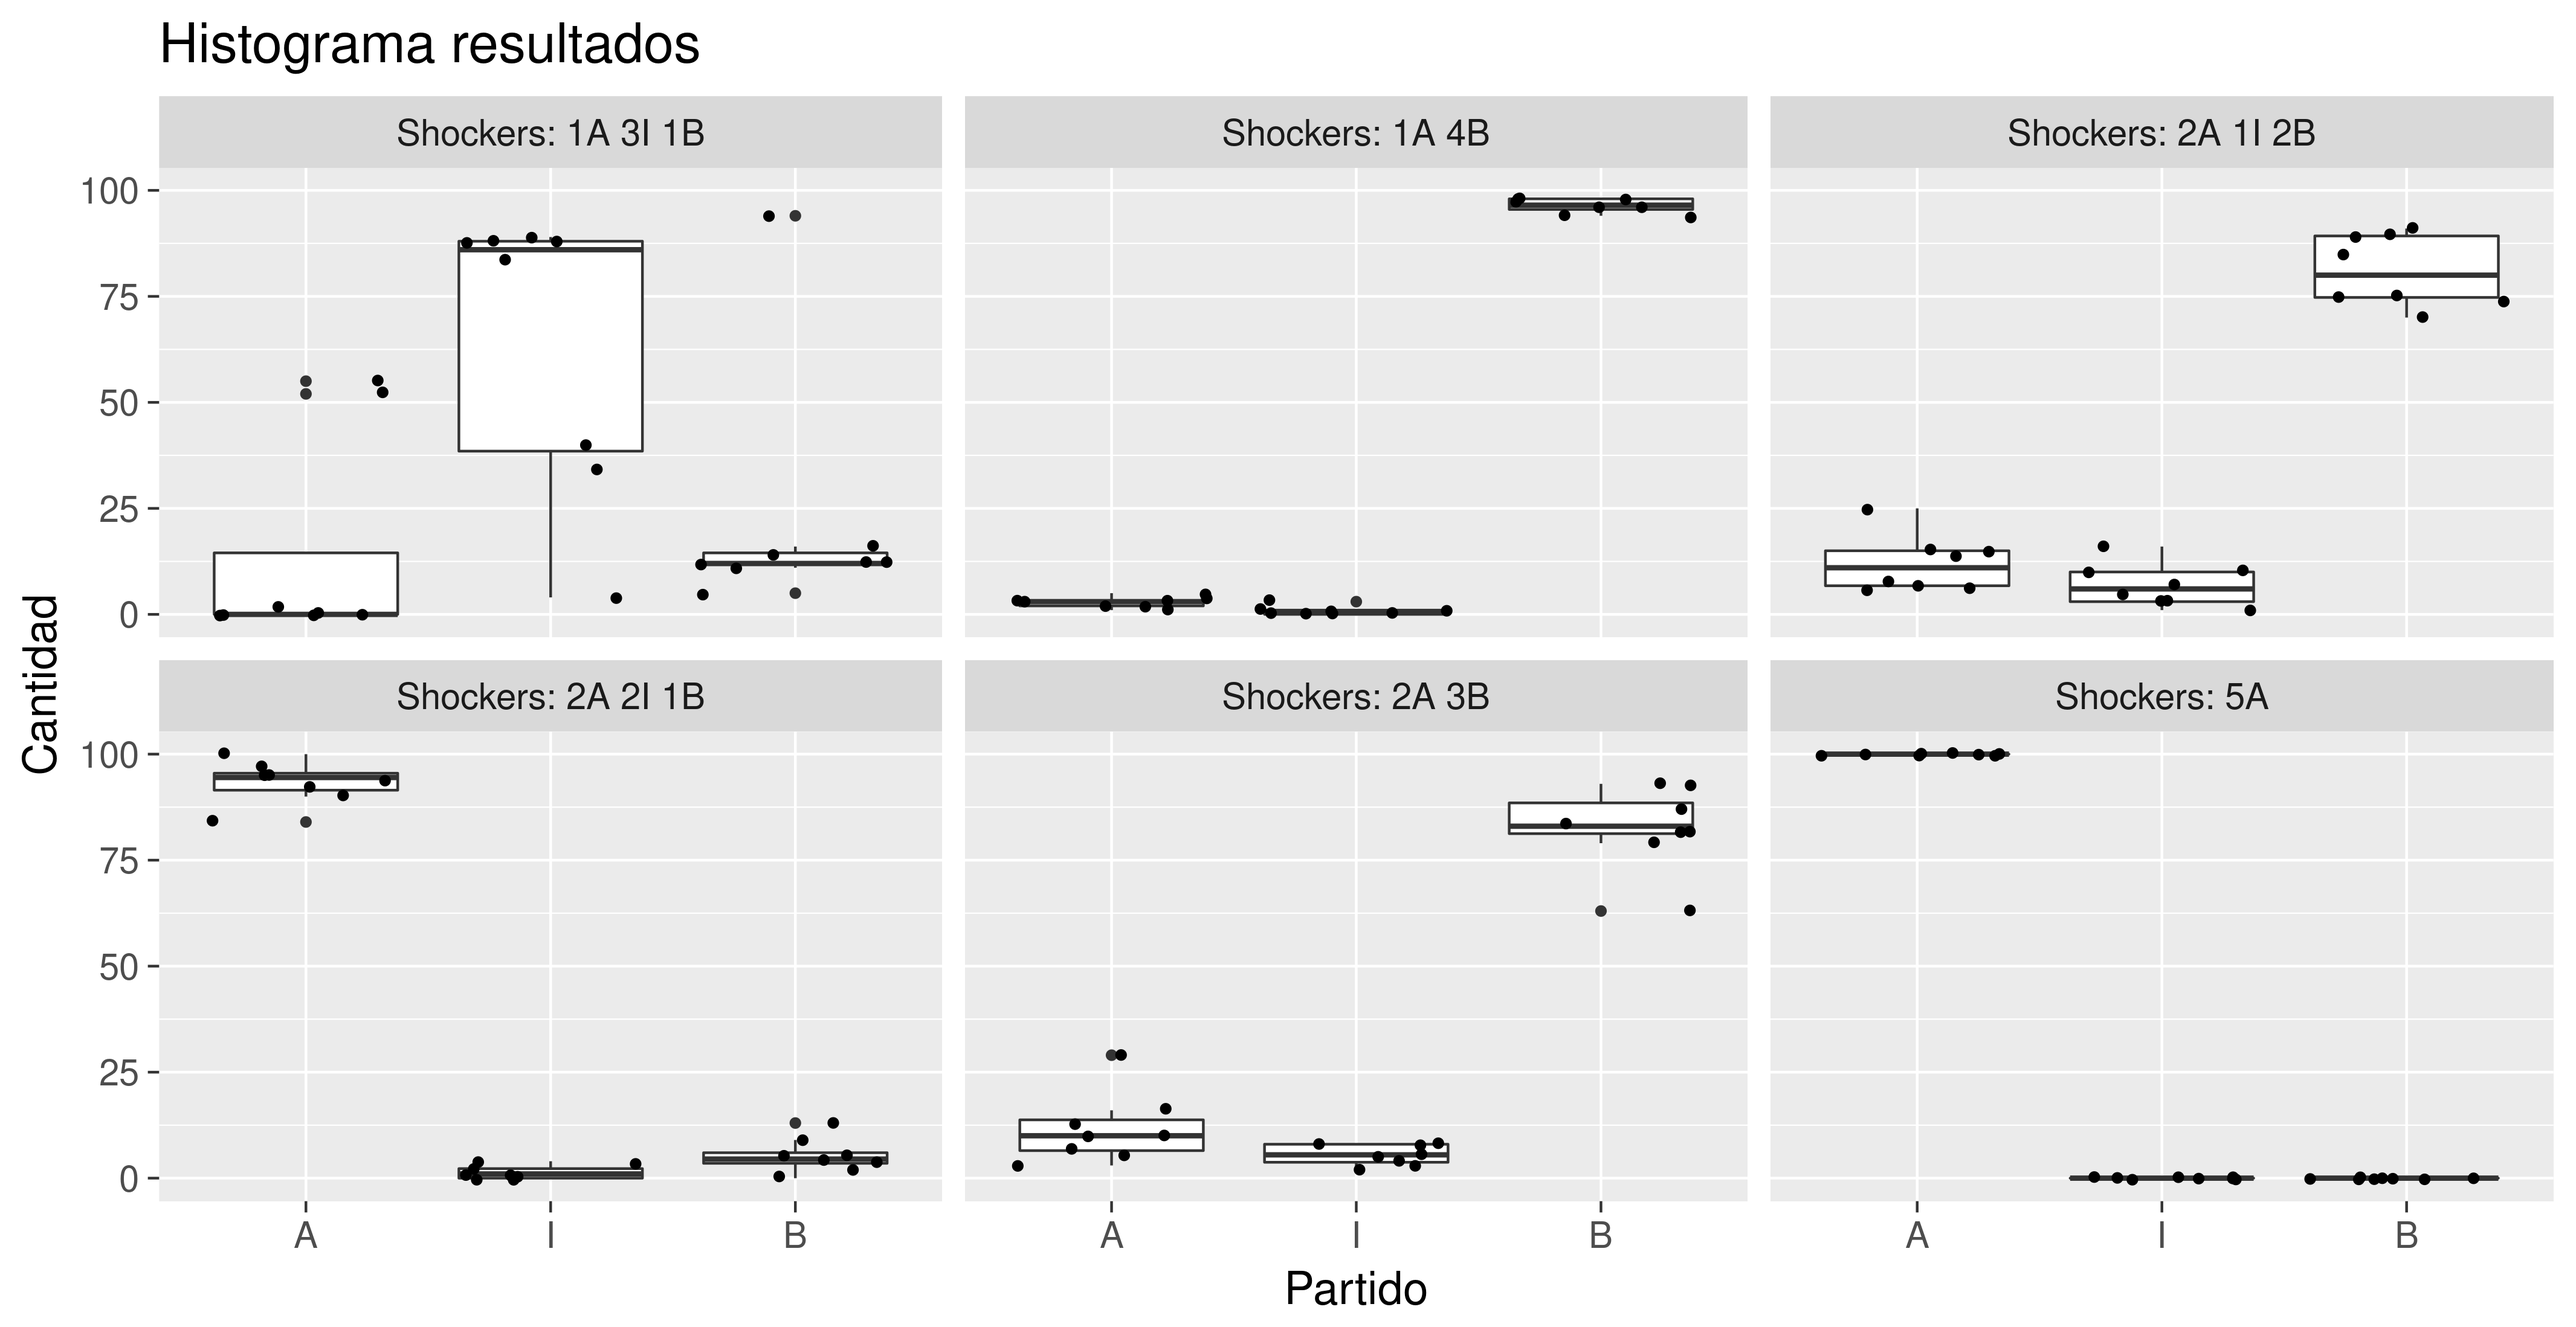
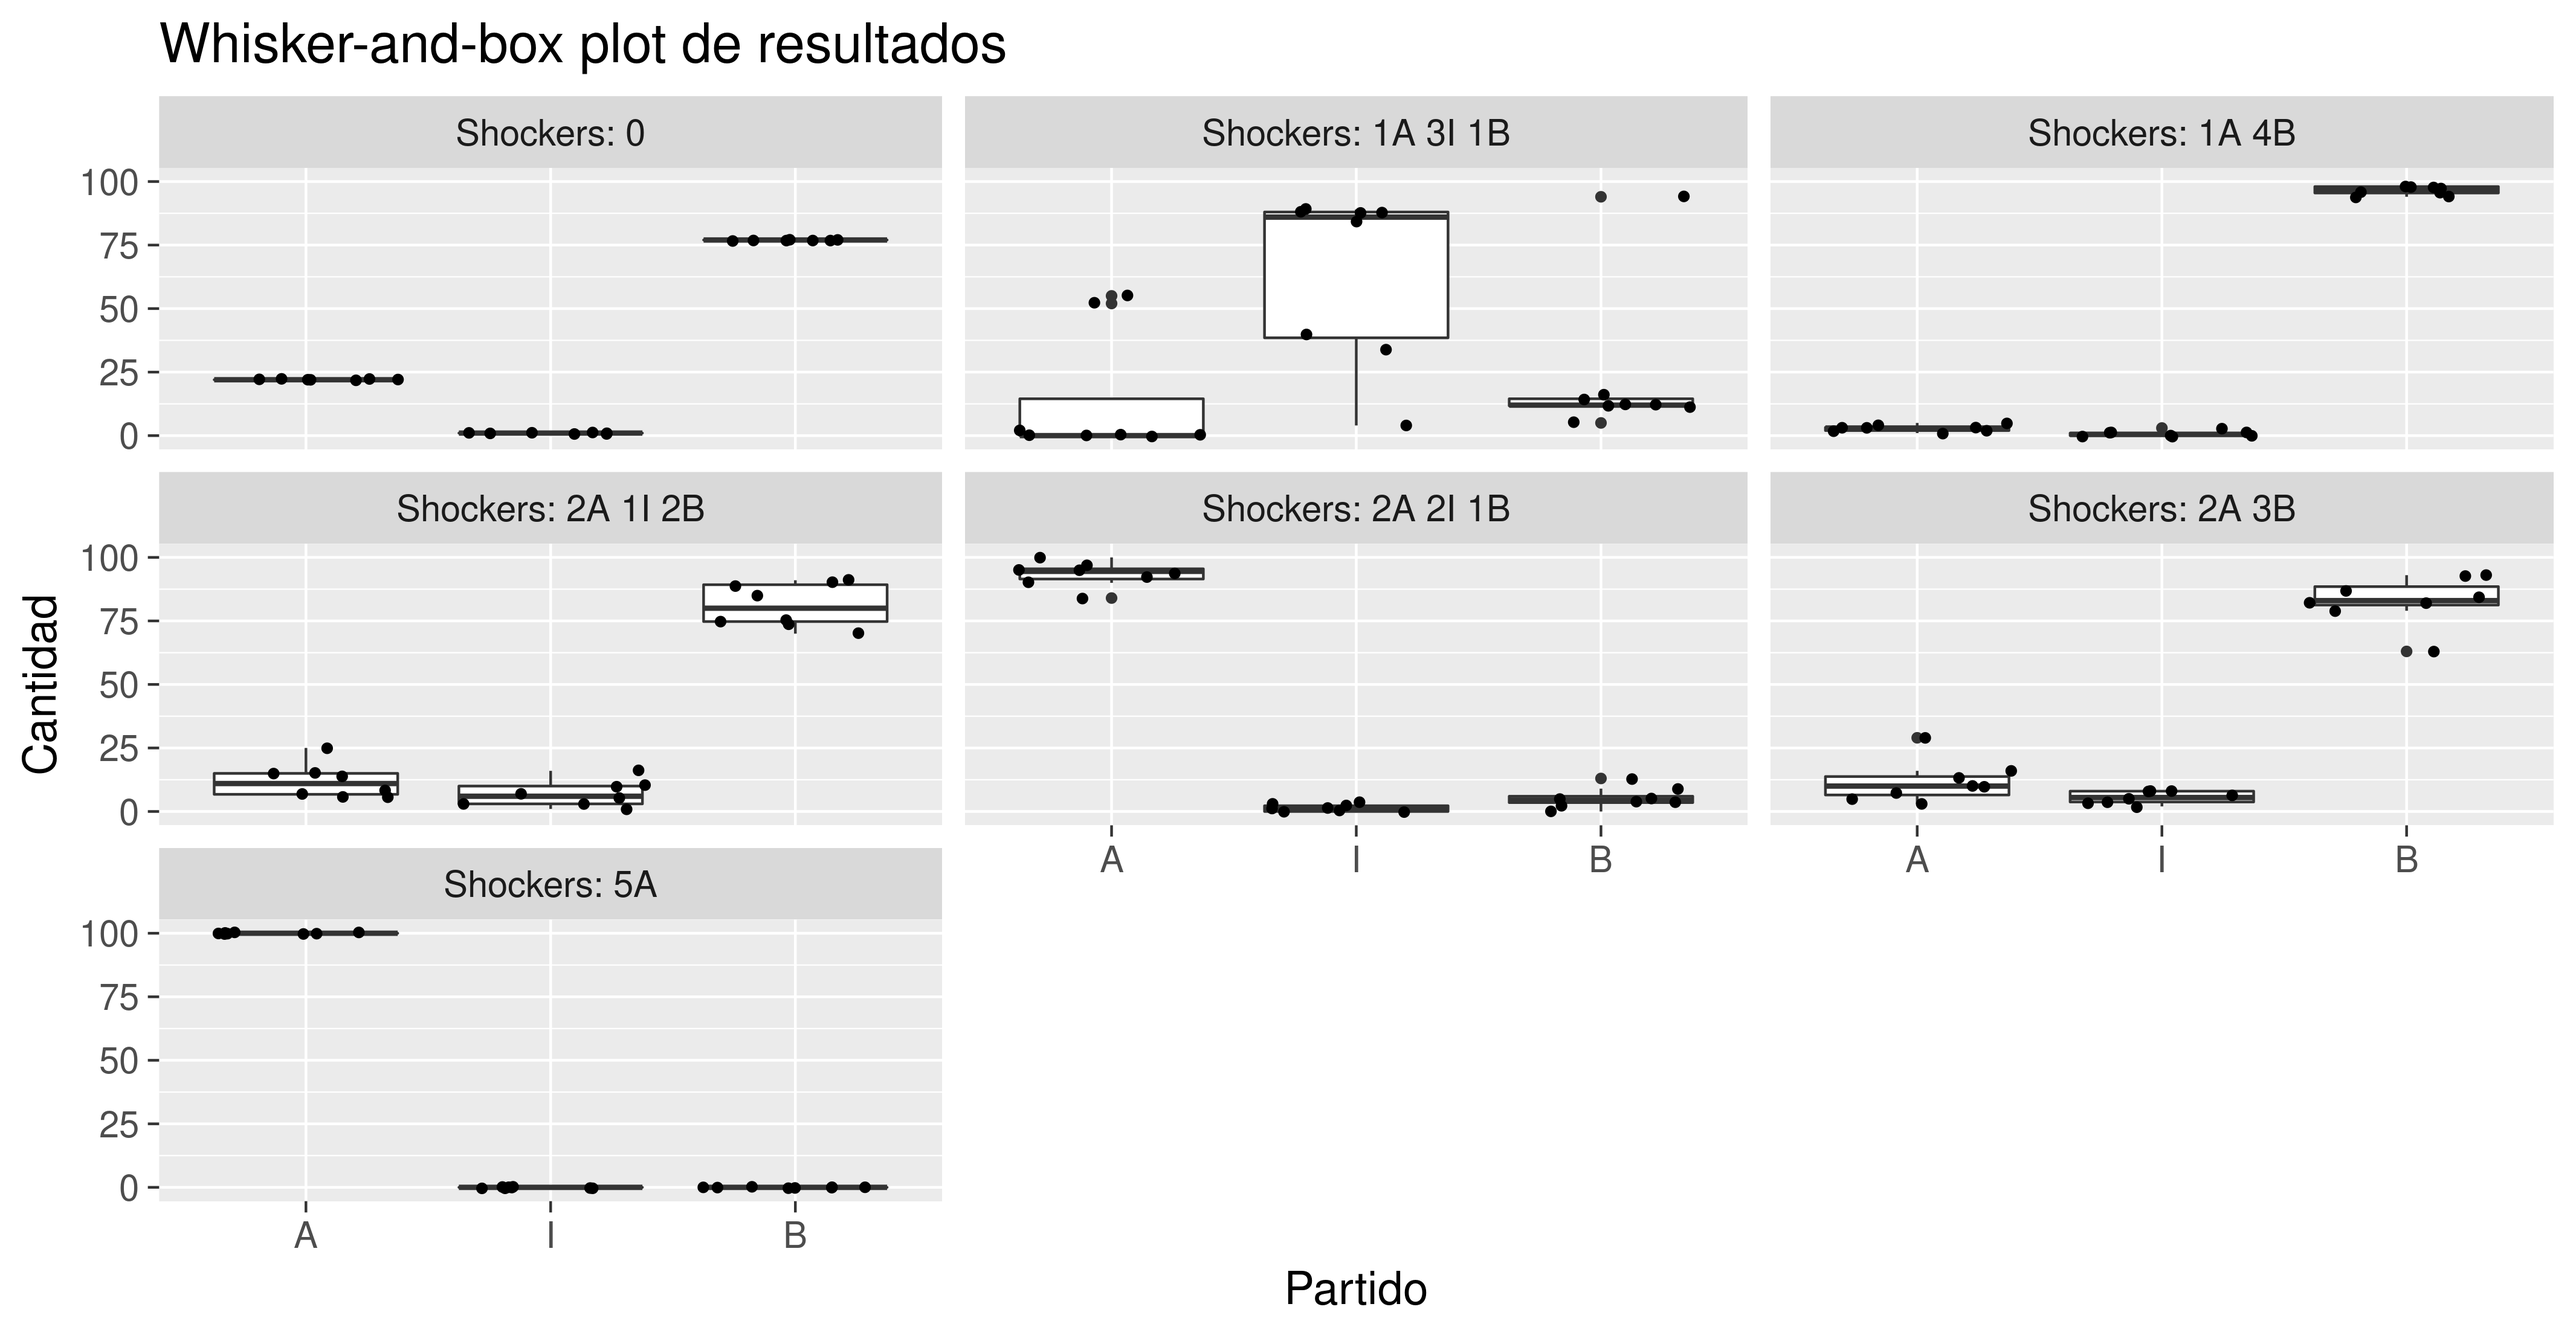
TP2 listo

diff --git a/tp2/informe/desarrollo.tex b/tp2/informe/desarrollo.tex
@@ -20,7 +20,7 @@ Para poder estudiar la influencia de los shockers determinamos las siguientes re
     \item rule: {  uniform(2, 3) } 0 { (0,0,0) = 7 } 
 \end{itemize}
 
-Para sintetizar el comportamiento agregado podemos decir que existirán tres tipos de shockers. Los que emitan el valor 5 polarizarán a las celdas hacia el intervalo [-3, -2]. Los que emitan el valor 6, neutralizarán la opinión de estas celdas volviendolas indecisas. Por otra parte al emitirse el valor 7, las celdas afectadas polarizarán hacia el intervalo opuesto [2, 3].
+Para sintetizar el comportamiento agregado podemos decir que existirán tres tipos de shockers. Los que emitan el valor 5 polarizarán a las celdas hacia el intervalo [-3, -2]. Los que emitan el valor 6, neutralizarán la opinión de estas celdas volviéndolas indecisas. Por otra parte al emitirse el valor 7, las celdas afectadas polarizarán hacia el intervalo opuesto [2, 3].
 
 
 \subsection{Experimentos}
@@ -37,26 +37,31 @@ Diseñamos experimentos para responder algunas preguntas, como por ejemplo:
 Definimos:
 
 \begin{description}
-    \item[Tamaño de la grilla]  $10 \times 10$
-    \item[Cantidad de shockers] 5
-    \item[Tiempo entre shocks] 10 segundos
-    \item[Tiempo virtual de simulación] 4 minutos
-    \item[Distribución poblacional inicial] 10\% de indecisos, 45\% de votantes de A, 45\% votantes de B.
+    \item \textbf{Tamaño de la grilla}  $10 \times 10$
+    \item \textbf{Cantidad de shockers} 5
+    \item \textbf{Tiempo entre shocks} 10 segundos
+    \item \textbf{Tiempo virtual de simulación} 4 minutos
+    \item \textbf{Distribución poblacional inicial} 10\% de indecisos, 45\% de votantes de A, 45\% votantes de B.
 \end{description}
 
 Las variaciones entre los experimentos están dadas por los efectos por cada shocker.
 
-Supongamos el vector de influencias [X, X, X, X, X]. En cada posición tenemos la influencia que puede generar el shocker de la posición i-ésima. Los valores pueden ser \textit{A, B o I}. Es decir, partido A, partido B o indeciso. Generamos los siguientes vectores de influencias que se mantienen a lo largo de toda la simulación.
+Supongamos el vector de influencias tal que se pueden tener shocks de tres
+tipos. Los shocks de tipo A, llevan a una celda a un valor con distribución
+uniforme extremo, un valor entre [-3, -2]. Los shocks de tipo I, neutralizan
+llevando las celdas al intervalo  [-1, 1]. Por último los shocks de tipo B
+polarizan hacia los valores [2, 3].
 
-Detrás del diseño de estos experimentos se esconde la idea de competencia por territorios. En donde el que mayor influencia tiene en él, puede dominar la partida o generar una votación a su favor.
+Detrás del diseño de estos experimentos se esconde la idea de competencia por
+territorios. En donde el que mayor influencia tiene en él, puede dominar la
+partida o generar una votación a su favor.
 
-\begin{description}
-    \item[Shockers: 5A] Todos los shockers obran a favor del partido A.
-    \item[Shockers: 2A 2I 1B] Hay mayor dominación del partido A, sin embargo existen 2 shockers que generan indecisos.
-    \item[Shockers: 2A 1I 2B] Terreno neutral, ninguno de los dos partidos domina.
-    \item[Shockers: 2A 3B] Hay dominación por parte del partido B, pero ligeramente.
-    \item[Shockers: 1A 3I 1B]Terreno neutral con mayor cantidad de shockers que generan indecisos.
-    \item[Shockers: 1A 4B]La mayor cantidad de shockers dominan a favor del partido B pero el partido A tiene un socker que genera opinión a su favor.
-    
-\end{description}
+\begin{itemize}
+    \item \textbf{Shockers: 5A} Todos los shockers obran a favor del partido A.
+    \item \textbf{Shockers: 2A 2I 1B} Hay mayor dominación del partido A, sin embargo existen 2 shockers que generan indecisos.
+    \item \textbf{Shockers: 2A 1I 2B} Terreno neutral, ninguno de los dos partidos domina.
+    \item \textbf{Shockers: 2A 3B} Hay dominación por parte del partido B, pero ligeramente.
+    \item \textbf{Shockers: 1A 3I 1B} Terreno neutral con mayor cantidad de shockers que generan indecisos.
+    \item \textbf{Shockers: 1A 4B} La mayor cantidad de shockers dominan a favor del partido B pero el partido A tiene un socker que genera opinión a su favor.  
+\end{itemize}
 

diff --git a/tp2/informe/resultados.tex b/tp2/informe/resultados.tex
@@ -1,18 +1,46 @@
-Para la generación de los resultados generamos 10 ejecuciones como las detalladas en la sección \textit{Desarrollo}.
+Para el análisis de los resultados generamos 10 ejecuciones como las detalladas
+en la sección \textit{Desarrollo}.
 Luego, generamos dos gráficos para analizar los valores de las muestras.
+Categorizamos los valores finales de cada celda dependiendo su rango en partido
+\textit{A, B o I (indeciso)}. Para A, si se encuentra en el rango [-3, -1], Indeciso [-1, 1]  y B si se encuentra en el rango [1, 3].
 
-La figura \ref{modelo_shock_histo} describe la cantidad de celdas finales que
+La figura \ref{fig:modelo_shock_box} describe la cantidad de celdas finales que
 finalizaron la simulación siendo del partido \textit{A, B o I (indeciso)}.
 
-Cada punto corresponde a una ejecución del experimento.
+Cada sub-gráfico corresponde a uno de los experimentos detallados. En el eje de
+las X se encuentra cada estado final que pudo haber alcanzado una celda. En el
+eje de las Y tenemos el conteo correspondiente.  Cada punto de cada columna
+corresponde a una ejecución de cada experimento con lo cual por cada
+sub-gráfico se encuentran 10 mediciones con el resultado de cada ejecución.
+
+
+En el caso de \textit{Shocker 0} se puede observar que el estado inicial de las
+celdas determina el estado final de estas dado que no se observan shocks
+externos. Esto significa que su estado está dado únicamente por la dinámica de
+interacción entre las celdas.
+
+Decidimos tomar este estado inicial de las celdas para, luego de estimularlas
+con los shocks, si era visible la dinámica generada por estos.
+Este caso, nos da un \textit{baseline} contra el cual poder razonar.
+
+En el caso de shockers balanceados (misma cantidad de Shockers de tipo A  y de
+B) que se observa en \textit{Shocker 2A 1I 2B} el shocker
+pareciera aumentar la varianza muestral de los datos finales con respecto al
+caso que no presenta estímulos exógenos.
+
+Es muy distinto el caso de shockers balanceados en el cual los shockers que generan
+Indecisos tiene más de un 50\% de participación, el gráfico \textit{Shocker 1A 3I 1B}.
+En este caso se observa que los indecisos tienen mucha influencia y que estos
+mantienen su estado al finalizar la simulación aun siendo que inicialmente eran una minoría.
+Los shockers de indecisos en este caso sirven como un neutralizador de opiniones.
 
 
 
 \begin{figure}[!h]
 \centering
 \includegraphics[scale=0.5]{imagenes/histograma_resultados.png}
-\caption{Histograma para los resultados del modelo}
-\label{fig:modelo_shock_histo}
+    \caption{\textit{Whisker-and-box} plot para los resultados del modelo}
+\label{fig:modelo_shock_box}
 \end{figure}
 
 \begin{figure}[!h]
@@ -21,3 +49,5 @@ Cada punto corresponde a una ejecución del experimento.
 \caption{Vecindario de celdas utilizado para definir el comportamiento de cada agente}
 \label{fig:modelo_shock_violin}
 \end{figure}
+
+

diff --git a/tp2/informe/trabajo-futuro.tex b/tp2/informe/trabajo-futuro.tex
@@ -1,1 +1,22 @@
-%TODO Completar con todas las cosas que quedaron afuera.
+
+Observamos que la interacción de Shockers sobre celdas con mucha influencia
+partidaria afecta de manera muy fuerte a los resultados finales.
+En los casos donde la influencia partidaria se da a favor de uno de ellos, la
+polarización se observa claramente y se puede observar un resultado
+unipartidista.
+
+
+Nuestra propuesta de agregar shocks externos enriqueció la dinámica de
+intercambio de opinión aunque por los parámetros elegidos esta dinámica de
+interacción entre celdas fue opacada por la manipulación de opinión dada por
+los shocks exógenos.
+
+
+A modo de trabajo futuro sería importante extender los experimentos en
+distintos ejes. Para poder entender cómo afectan los shocks a las celdas. Por
+ejemplo disminuyendo la proporción de celdas afectadas en cada shock; variando la 
+intensidad de los shocks pero a intervalos mas pequeños;
+cambiar la distribución de valores iniciales; probar con tiempos entre shocks
+más largos; variar la cantidad de shockers y su balanceo.
+
+

diff --git a/tp2/informe/main.tex b/tp2/informe/main.tex
@@ -32,7 +32,7 @@
 \section{Resultados}
 \input{resultados.tex}
 
-\section{Trabajo futuro}
+\section{Conclusiones y Trabajo futuro}
 \input{trabajo-futuro.tex}
 
 %
